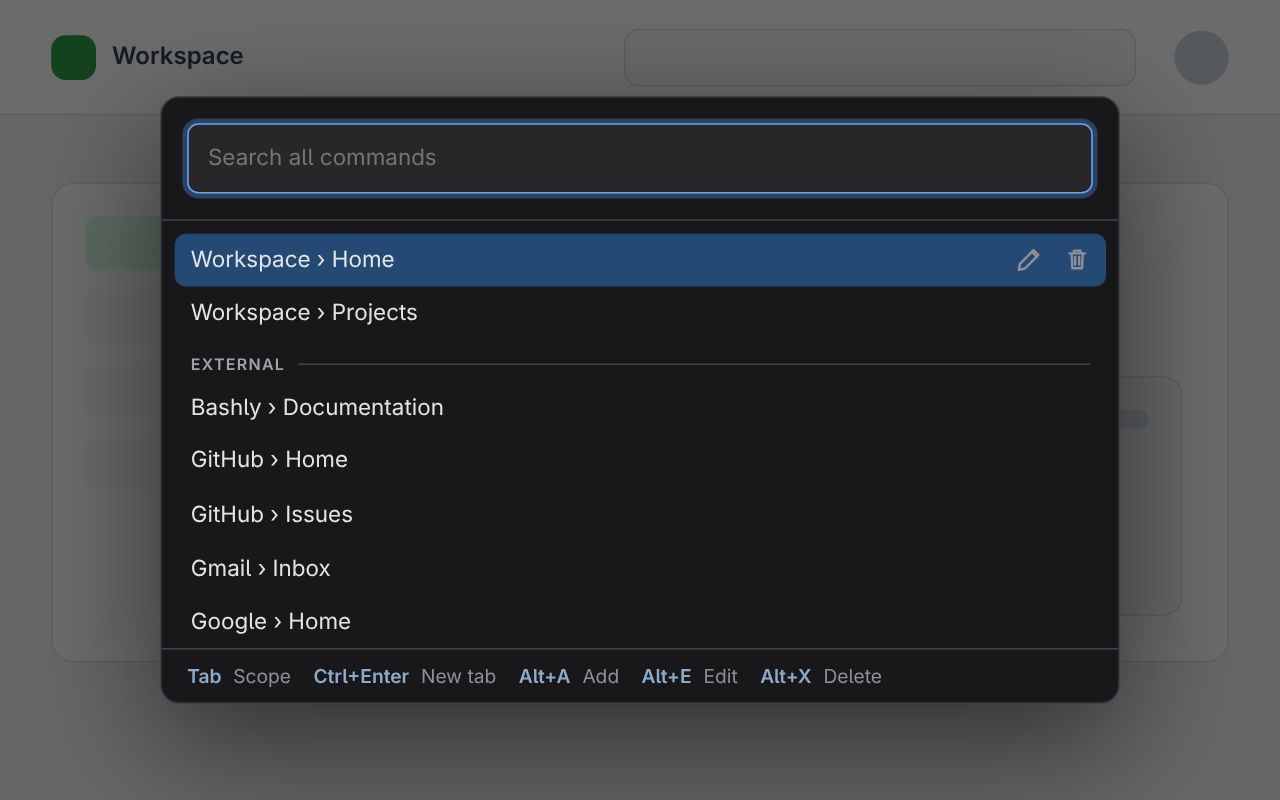
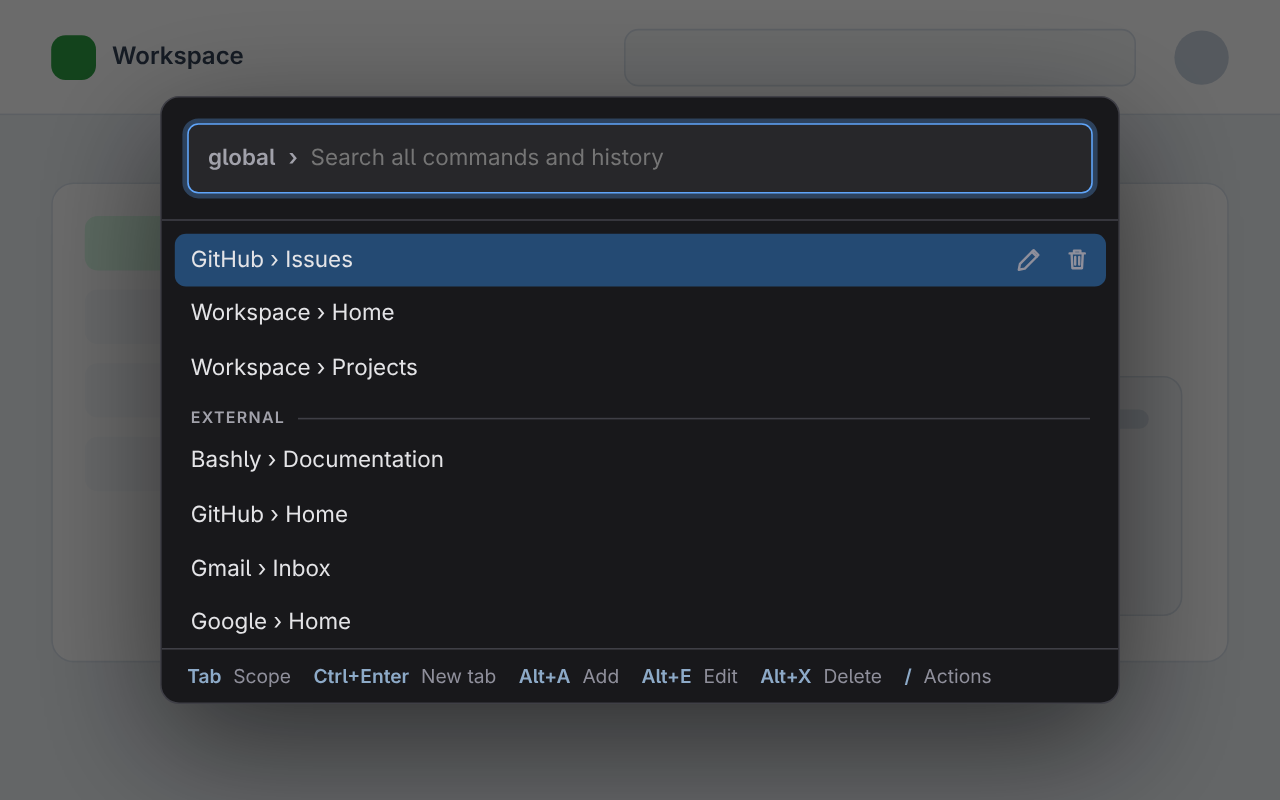
updates for 0.3.2 release

diff --git a/test/manifest.test.js b/test/manifest.test.js
@@ -10,7 +10,7 @@ test("manifest is valid and references existing packaged files", async () => {
   const packageMetadata = JSON.parse(await readFile(path.join(projectRoot, "package.json"), "utf8"));
 
   assert.equal(manifest.manifest_version, 3);
-  assert.equal(manifest.version, "0.3.1");
+  assert.equal(manifest.version, "0.3.2");
   assert.equal(packageMetadata.version, manifest.version);
   assert.ok(manifest.permissions.includes("storage"));
   assert.deepEqual(manifest.permissions, ["storage", "activeTab"]);

diff --git a/support/store/texts.md b/support/store/texts.md
@@ -1,5 +1,9 @@
 # Chrome Web Store Texts
 
+## History Permission Justification
+
+The optional history permission is requested only when the user enables browsing-history search in Settings. It reads visited page titles and URLs to show matching pages beneath saved commands, for the current site or across all sites. Results are processed locally, are not transmitted to external servers or included in backups, and are not shown in incognito tabs. Disabling history search removes the permission.
+
 ## Summary
 
 A fast, contextual command palette for saving and recalling pages across the sites you use.
@@ -8,13 +12,13 @@ A fast, contextual command palette for saving and recalling pages across the sit
 
 Site Command Palette gives every website a fast, keyboard-first command palette for the pages you use most. Save a page once, then recall it in a few keystrokes without hunting through bookmarks or menus. Enable optional browsing-history search to find previously visited pages alongside your saved commands.
 
-Your data stays yours. Commands and preferences are stored locally in your browser. Browsing history is accessed only if you enable it and grant Chrome's optional permission. History results stay local and are excluded from backups. If you enable backups, they are written only to a folder you choose on your computer. There are no accounts, analytics, ads, or cloud services, and nothing is sent to us. Site Command Palette is open source, so its behavior can be inspected.
+Your data stays yours. Commands and preferences are stored locally in your browser. Browsing history is accessed only if you enable it and grant Chrome's optional permission. History results stay local, are excluded from backups, and are not shown in incognito tabs. If you enable backups, they are written only to a folder you choose on your computer. There are no accounts, analytics, ads, or cloud services, and nothing is sent to us. Site Command Palette is open source, so its behavior can be inspected.
 
 KEY FEATURES
 
 • Contextual commands — see links for the current site by default, or switch to all your saved commands with a single key.
 • Fast fuzzy search — find a command by typing a few letters, even when they are spread across its site and page names.
-• Optional browsing history — find visited pages below your saved commands, for this site or across all sites. Stronger matches and shorter URLs come first; adding words narrows results immediately.
+• Optional browsing history — type at least three characters to find visited pages below your saved commands, for this site or across all sites. Stronger matches and shorter URLs come first; adding words narrows results immediately. Choose up to 3, 5, 10, 15, or 20 history results in Settings (default: 10).
 • Keyboard-first navigation — open the palette, search, select, and navigate without reaching for the mouse.
 • Flexible scope — save commands for one site, make them available everywhere, or use a custom site pattern.
 • Quick actions — add the current page, edit saved commands, open links in a new tab, and change the current site's theme directly from the palette.
@@ -29,7 +33,7 @@ HOW TO USE IT
 2. Press Alt+A to save the current page.
 3. Start typing to find a page, then press Enter to open it.
 4. Press Tab to switch between this site and all sites. This applies to both commands and browsing history.
-5. Press Ctrl+Enter to open the selected command in a new tab.
+5. Press Ctrl+Enter to open the selected page in a new tab.
 6. To search visited pages, open Settings and click Enable history search under Browsing history, then approve Chrome's permission request. History search is off by default; Disable history search removes the permission.
 
 LICENSE AND WARRANTY

diff --git a/support/screenshots/README.md b/support/screenshots/README.md
@@ -18,6 +18,7 @@ Edit `config.json` to define shared or per-screenshot commands and these states:
 - `theme`: `light` or `dark`
 - `paletteScope`: `site` or `all`
 - `query`: optional search text; for `edit`, it identifies the command to edit
+- `historyResults`: wait for history results before capturing a list screen
 - `form`: optional stable `site`, `page`, `url`, and `scope` values for add/edit
 - `focus`: optional `Site`, `Page`, `URL`, or `Scope` field for add/edit
 
@@ -26,6 +27,14 @@ scope without recomputing the preset indicator from the offline fixture host.
 
 Commands use `global`, `site`, or a normal scope pattern. A URL beginning with
 `fixture:` points to the local fixture, such as `fixture:/docs`.
+
+The optional top-level `history` array contains sample `url` and `title` entries
+to seed in the temporary Chrome profile. Navigations are fulfilled locally so
+Chrome records the titles without contacting the sample websites.
+When present, history search is enabled for the
+capture session. The generator grants history permission in a temporary extension
+copy because headless Chrome cannot show the permission prompt. The repository's
+manifest and packaged extension keep history permission optional.
 
 Pass another configuration file when experimenting:
 

diff --git a/README.md b/README.md
@@ -15,9 +15,9 @@ without leaving the keyboard.
 - Fuzzy search with bold character highlighting and keyboard result selection.
 - Backtick opens the palette; Alt+Backtick also works from editable fields.
 - Arrow keys select a command, Enter activates it, and Escape clears or closes.
-- Tab toggles between commands in the current scope and all saved commands.
+- Tab toggles between the current site and all sites for commands and browsing history.
 - Optional browsing-history search follows the same scope toggle and favors stronger matches and shorter URLs.
-- Ctrl+Enter opens the selected command in a new tab.
+- Ctrl+Enter opens the selected page in a new tab.
 - Default shortcuts use Alt+A to add, Alt+E to edit, and Alt+X to delete.
 - Activation and palette-action shortcuts are configurable in Settings.
 - Slash actions provide quick access to `/add`, `/theme`, and `/settings`.
